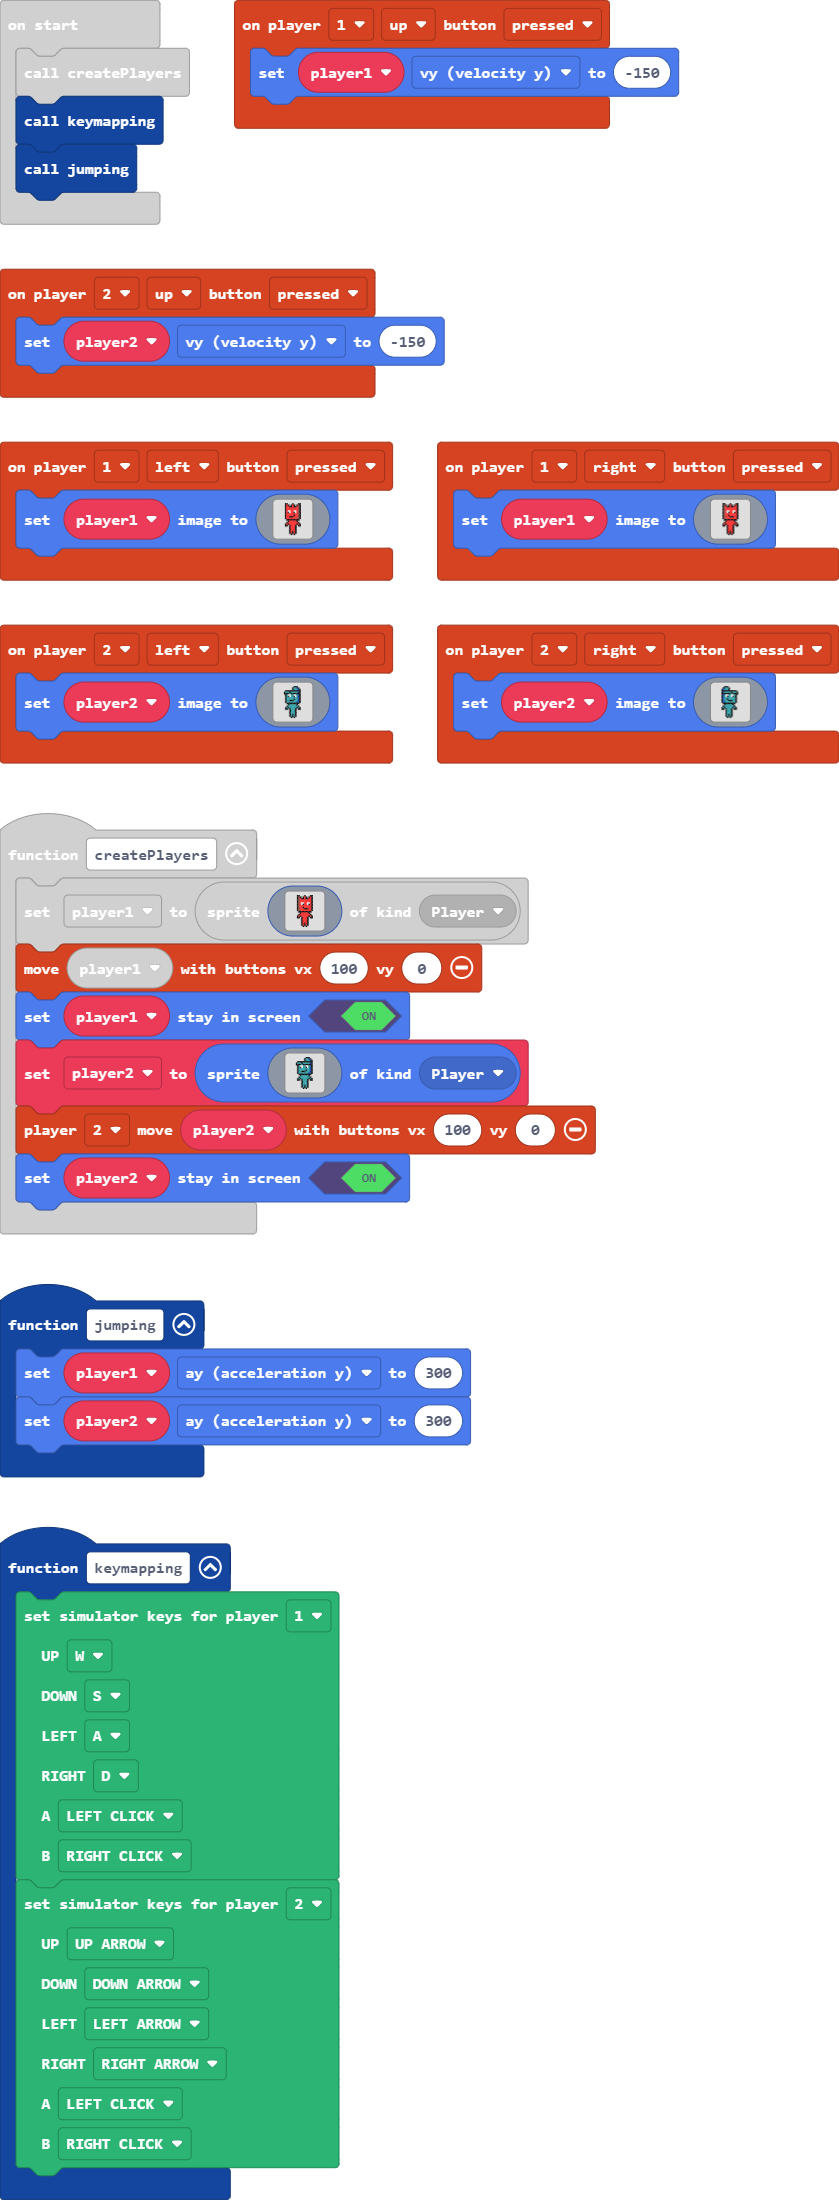
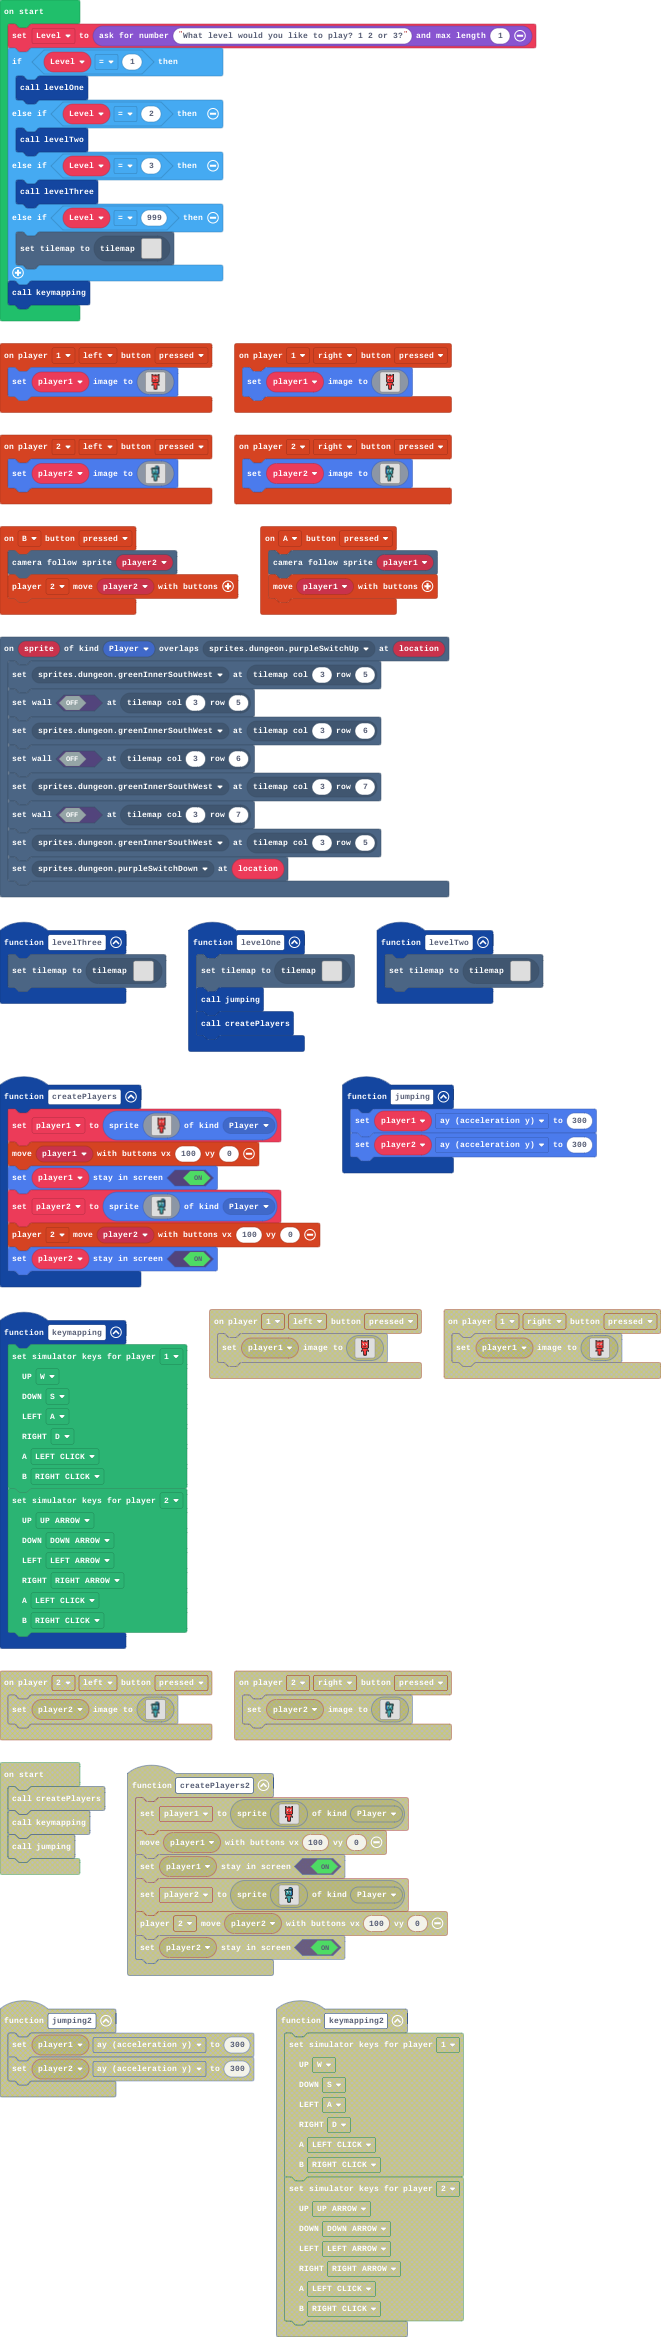
i did a thin 2

diff --git a/tilemap.g.ts b/tilemap.g.ts
@@ -1,0 +1,99 @@
+// Auto-generated code. Do not edit.
+namespace myTiles {
+    //% fixedInstance jres blockIdentity=images._tile
+    export const transparency16 = image.ofBuffer(hex``);
+    //% fixedInstance jres blockIdentity=images._tile
+    export const tile1 = image.ofBuffer(hex``);
+
+    helpers._registerFactory("tilemap", function(name: string) {
+        switch(helpers.stringTrim(name)) {
+            case "level4":
+            case "level4":return tiles.createTilemap(hex`1000100000000000000000000000000000000000000000000000000000000000000000000000000000000000000000000000000000000000000000000000000000000000000000000000000000000000000000000000000000000000000000000000000000000000000000000000000000000000000000000000000000000000000000000000000000000000000000000000000000000000000000000000000000000000000000000000000000000000000000000000000000000000000000000000000000000000000000000000000000000000000000000000000000000000000000000000000000000000000000000000000000000000000000000000000000000000`, img`
+. . . . . . . . . . . . . . . . 
+. . . . . . . . . . . . . . . . 
+. . . . . . . . . . . . . . . . 
+. . . . . . . . . . . . . . . . 
+. . . . . . . . . . . . . . . . 
+. . . . . . . . . . . . . . . . 
+. . . . . . . . . . . . . . . . 
+. . . . . . . . . . . . . . . . 
+. . . . . . . . . . . . . . . . 
+. . . . . . . . . . . . . . . . 
+. . . . . . . . . . . . . . . . 
+. . . . . . . . . . . . . . . . 
+. . . . . . . . . . . . . . . . 
+. . . . . . . . . . . . . . . . 
+. . . . . . . . . . . . . . . . 
+. . . . . . . . . . . . . . . . 
+`, [myTiles.transparency16], TileScale.Sixteen);
+            case "level1":
+            case "level1":return tiles.createTilemap(hex`1000100000000000000000000000000000000000000000000000000000000000000000000000000000000000000000000000000000000000000000000000000000000000000000000000000000000000000000000000000000000000000000000000000000000000000000000000000000000000000000000000000000000000000000000000000000000000000000000000000000000000000000000000000000000000000000000000000000000000000000000000000000000000000000000000000000000000000000000000000000000000000000000000000000000000000000000000000000000000000000000000000000000000000000000000000000000000`, img`
+. . . . . . . . . . . . . . . . 
+. . . . . . . . . . . . . . . . 
+. . . . . . . . . . . . . . . . 
+. . . . . . . . . . . . . . . . 
+. . . . . . . . . . . . . . . . 
+. . . . . . . . . . . . . . . . 
+. . . . . . . . . . . . . . . . 
+. . . . . . . . . . . . . . . . 
+. . . . . . . . . . . . . . . . 
+. . . . . . . . . . . . . . . . 
+. . . . . . . . . . . . . . . . 
+. . . . . . . . . . . . . . . . 
+. . . . . . . . . . . . . . . . 
+. . . . . . . . . . . . . . . . 
+. . . . . . . . . . . . . . . . 
+. . . . . . . . . . . . . . . . 
+`, [], -Infinity);
+            case "level2":
+            case "level2":return tiles.createTilemap(hex`1000100000000000000000000000000000000000000000000000000000000000000000000000000000000000000000000000000000000000000000000000000000000000000000000000000000000000000000000000000000000000000000000000000000000000000000000000000000000000000000000000000000000000000000000000000000000000000000000000000000000000000000000000000000000000000000000000000000000000000000000000000000000000000000000000000000000000000000000000000000000000000000000000000000000000000000000000000000000000000000000000000000000000000000000000000000000000`, img`
+. . . . . . . . . . . . . . . . 
+. . . . . . . . . . . . . . . . 
+. . . . . . . . . . . . . . . . 
+. . . . . . . . . . . . . . . . 
+. . . . . . . . . . . . . . . . 
+. . . . . . . . . . . . . . . . 
+. . . . . . . . . . . . . . . . 
+. . . . . . . . . . . . . . . . 
+. . . . . . . . . . . . . . . . 
+. . . . . . . . . . . . . . . . 
+. . . . . . . . . . . . . . . . 
+. . . . . . . . . . . . . . . . 
+. . . . . . . . . . . . . . . . 
+. . . . . . . . . . . . . . . . 
+. . . . . . . . . . . . . . . . 
+. . . . . . . . . . . . . . . . 
+`, [], -Infinity);
+            case "level3":
+            case "level3":return tiles.createTilemap(hex`1000100000000000000000000000000000000000000000000000000000000000000000000000000000000000000000000000000000000000000000000000000000000000000000000000000000000000000000000000000000000000000000000000000000000000000000000000000000000000000000000000000000000000000000000000000000000000000000000000000000000000000000000000000000000000000000000000000000000000000000000000000000000000000000000000000000000000000000000000000000000000000000000000000000000000000000000000000000000000000000000000000000000000000000000000000000000000`, img`
+. . . . . . . . . . . . . . . . 
+. . . . . . . . . . . . . . . . 
+. . . . . . . . . . . . . . . . 
+. . . . . . . . . . . . . . . . 
+. . . . . . . . . . . . . . . . 
+. . . . . . . . . . . . . . . . 
+. . . . . . . . . . . . . . . . 
+. . . . . . . . . . . . . . . . 
+. . . . . . . . . . . . . . . . 
+. . . . . . . . . . . . . . . . 
+. . . . . . . . . . . . . . . . 
+. . . . . . . . . . . . . . . . 
+. . . . . . . . . . . . . . . . 
+. . . . . . . . . . . . . . . . 
+. . . . . . . . . . . . . . . . 
+. . . . . . . . . . . . . . . . 
+`, [], -Infinity);
+        }
+        return null;
+    })
+
+    helpers._registerFactory("tile", function(name: string) {
+        switch(helpers.stringTrim(name)) {
+            case "transparency16":return transparency16;
+            case "tile1":return tile1;
+        }
+        return null;
+    })
+
+}
+// Auto-generated code. Do not edit.

diff --git a/main.ts b/main.ts
@@ -1,9 +1,20 @@
+function levelThree () {
+    tiles.setCurrentTilemap(tilemap`level3`)
+}
 function jumping () {
     player1.ay = 300
     player2.ay = 300
 }
+controller.B.onEvent(ControllerButtonEvent.Pressed, function () {
+    scene.cameraFollowSprite(player2)
+    controller.player2.moveSprite(player2)
+})
 controller.player1.onButtonEvent(ControllerButton.Up, ControllerButtonEvent.Pressed, function () {
     player1.vy = -150
+})
+controller.A.onEvent(ControllerButtonEvent.Pressed, function () {
+    scene.cameraFollowSprite(player1)
+    controller.moveSprite(player1)
 })
 function keymapping () {
     MakeyMakey.setSimulatorKeymap(
@@ -24,6 +35,11 @@ function keymapping () {
     MakeyMakey.MakeyMakeyKey.LEFT_CLICK,
     MakeyMakey.MakeyMakeyKey.RIGHT_CLICK
     )
+}
+function levelOne () {
+    tiles.setCurrentTilemap(tilemap`level1`)
+    jumping()
+    createPlayers()
 }
 controller.player2.onButtonEvent(ControllerButton.Up, ControllerButtonEvent.Pressed, function () {
     player2.vy = -150
@@ -163,6 +179,19 @@ controller.player1.onButtonEvent(ControllerButton.Right, ControllerButtonEvent.P
         . . . . f . f . . . . 
         `)
 })
+scene.onOverlapTile(SpriteKind.Player, sprites.dungeon.purpleSwitchUp, function (sprite, location) {
+    tiles.setTileAt(tiles.getTileLocation(3, 5), sprites.dungeon.greenInnerSouthWest)
+    tiles.setWallAt(tiles.getTileLocation(3, 5), false)
+    tiles.setTileAt(tiles.getTileLocation(3, 6), sprites.dungeon.greenInnerSouthWest)
+    tiles.setWallAt(tiles.getTileLocation(3, 6), false)
+    tiles.setTileAt(tiles.getTileLocation(3, 7), sprites.dungeon.greenInnerSouthWest)
+    tiles.setWallAt(tiles.getTileLocation(3, 7), false)
+    tiles.setTileAt(tiles.getTileLocation(3, 5), sprites.dungeon.greenInnerSouthWest)
+    tiles.setTileAt(location, sprites.dungeon.purpleSwitchDown)
+})
+function levelTwo () {
+    tiles.setCurrentTilemap(tilemap`level2`)
+}
 controller.player1.onButtonEvent(ControllerButton.Left, ControllerButtonEvent.Pressed, function () {
     player1.setImage(img`
         f f . . . f . . . f f 
@@ -191,6 +220,14 @@ controller.player1.onButtonEvent(ControllerButton.Left, ControllerButtonEvent.Pr
 })
 let player2: Sprite = null
 let player1: Sprite = null
-createPlayers()
+let Level = game.askForNumber("What level would you like to play? 1 2 or 3?", 1)
+if (Level == 1) {
+    levelOne()
+} else if (Level == 2) {
+    levelTwo()
+} else if (Level == 3) {
+    levelThree()
+} else if (Level == 999) {
+    tiles.setCurrentTilemap(tilemap`level3`)
+}
 keymapping()
-jumping()
